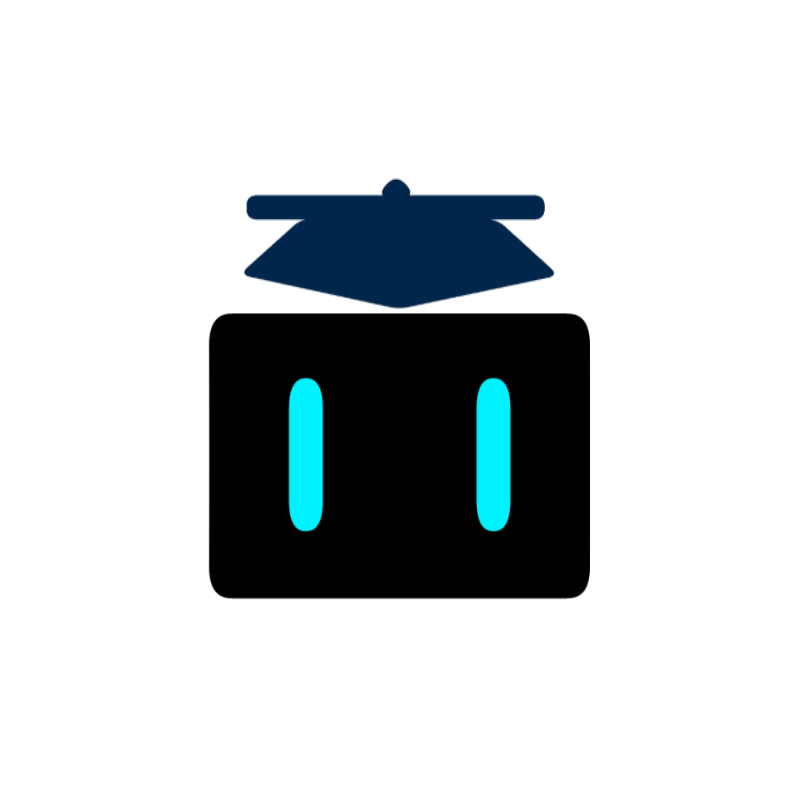
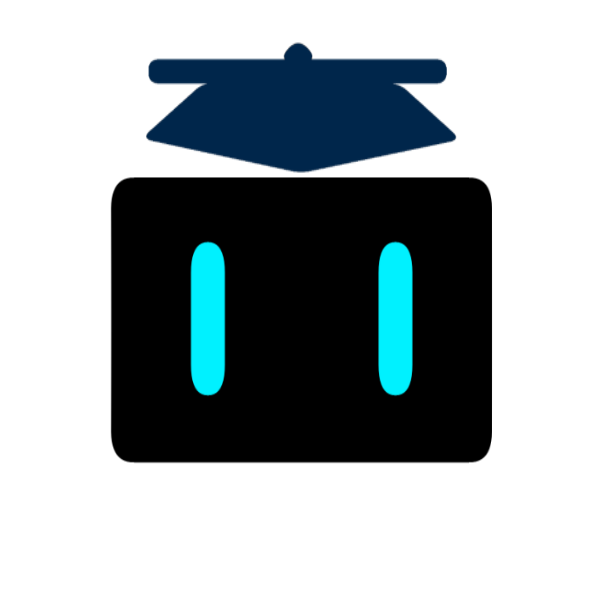
chatbot UI update

Changed region(s): [[0.18, 0.06, 0.84, 0.78]]

diff --git a/Wiki-Taka Chatbot/static/t5code.js b/Wiki-Taka Chatbot/static/t5code.js
@@ -1,0 +1,146 @@
+var pop;
+var rs;
+var anvoice;
+
+window.onload = setup;
+
+function setup() {
+  pop = new Audio("/sounds/pop.mp3");
+  pop.volume = 0.2;
+  rs = new RiveScript();
+  rs.loadFile(["/static/t5chatbotRiveScript.html"], on_load_success, on_load_error);
+}
+
+function on_load_success() {
+  $("#message").removeAttr("disabled");
+  $("#message").attr("placeholder", "Message");
+  $("#message").focus();
+  rs.sortReplies();
+  getReply("start");
+}
+
+function on_load_error(err) {
+  postReply(
+    "Yikes, there was an error loading this bot. Refresh the page please."
+  );
+  console.log("Loading error: " + err);
+}
+
+function validate(event) {
+   event.preventDefault();
+};
+
+function sendMessage() {
+  var text = $("#message").val();
+  if (text.length === 0) return validate(event);
+  $("#message2").val(text);
+  $("#message").val("");
+  $("#message").attr("disabled",true);
+  $("#dialogue").append(
+    "<div class='user-row'><span class='user'>" +
+      escapeHtml(text) +
+      "</span></div>"
+  );
+  $("#dialogue").animate({ scrollTop: $("#dialogue")[0].scrollHeight }, 200);
+  waitReply("pleasewait");
+}
+
+function getReply(text) {
+  try {
+    var reply = rs.reply("soandso", text);
+    reply = reply.replace(/\n/g, "<br>");
+    startpostReply(reply);
+  } catch (e) {
+    startpostReply(e.message + "\n" + e.line);
+    console.log(e);
+  }
+}
+
+function getReply2(text) {
+  $("#message").val("")
+    var reply = $("#iframe1").contents().find('pre').html();
+  if (reply == "Internal Server Error") {
+    var reply = "현재 답변을 가져올 수 없습니다.";
+    postReply(reply);
+    } else {
+    anvoice = new Audio("/sounds/answer.mp3")
+    postReply(reply);
+  }
+  }
+
+function waitReply(text) {
+  try {
+    var reply = rs.reply("soandso", text);
+    reply = reply.replace(/\n/g, "<br>");
+    postwaitReply(reply);
+  } catch (e) {
+    postwaitReply(e.message + "\n" + e.line);
+    console.log(e);
+  }
+}
+
+function postwaitReply(reply, delay) {
+  if (!delay) delay = 800;
+  var waitid = "disapear";
+  setTimeout(function() {
+    $("#dialogue").append(
+      "<div class='bot-row' id='" +
+        waitid +
+        "'><img class= 'chatbotprofile' src = '/img/Wikidqprofile.png' alt = 'noproflies'><span class='bot'>" +
+        reply +
+        "</span></div>"
+    );
+    pop.play();
+    $("#" + rand)
+      .hide()
+      .fadeIn(200);
+    $("#dialogue").animate({ scrollTop: $("#dialogue")[0].scrollHeight }, 200);
+  }, delay);
+}
+
+function startpostReply(reply, delay) {
+  if (!delay) delay = 800;
+  var rand = Math.round(Math.random() * 10000);;
+  setTimeout(function () {
+    $("#dialogue").append(
+      "<div class='bot-row' id='" +
+        rand +
+        "'><img class= 'chatbotprofile' src = '/img/Wikidqprofile.png' alt = 'noproflies'><span class='bot'>" +
+        reply +
+        "</span></div>"
+    );
+    pop.play();
+    $("#" + rand)
+      .hide()
+      .fadeIn(200);
+    $("#dialogue").animate({ scrollTop: $("#dialogue")[0].scrollHeight }, 200);
+  }, delay);
+}
+
+function postReply(reply, delay) {
+  if (!delay) delay = 800;
+  var rand = Math.round(Math.random() * 10000);
+  setTimeout(function () {
+    $("#disapear").remove();
+    $("#dialogue").append(
+      "<div class='bot-row' id='" +
+        rand +
+        "'><img class= 'chatbotprofile' src = '/img/Wikidqprofile.png' alt = 'noproflies'><span class='bot'>" +
+        reply +
+        "</span></div>"
+    );
+    anvoice.play();
+    $("#message").attr("disabled", false);
+    $("#" + rand)
+      .hide()
+      .fadeIn(200);
+    $("#dialogue").animate({ scrollTop: $("#dialogue")[0].scrollHeight }, 200);
+  }, delay);
+}
+
+function escapeHtml(text) {
+  return text
+    .replace(/&/g, "&amp;")
+    .replace(/</g, "&lt;")
+    .replace(/>/g, "&gt;");
+}

diff --git a/Wiki-Taka Chatbot/templates/T5chatbot.html b/Wiki-Taka Chatbot/templates/T5chatbot.html
@@ -5,7 +5,7 @@
   <title>Wiki-DQ</title>
   <meta http-equiv="Content-Type" content="text/html; charset=UTF-8">
   <meta name="viewport" content="width=device-width, initial-scale=1">
-  <link rel="stylesheet" type="text/css" href="/static/style.css">
+  <link rel="stylesheet" type="text/css" href="/static/t5style.css">
   <link rel="shortcut icon" type="image/x-icon" href="/img/favicon.ico" />
   <link rel="shortcut icon" type="image/x-icon" href="/img/favicon.ico" />
   <link href="https://cdn.jsdelivr.net/npm/bootstrap@5.1.3/dist/css/bootstrap.min.css" rel="stylesheet" integrity="sha384-1BmE4kWBq78iYhFldvKuhfTAU6auU8tT94WrHftjDbrCEXSU1oBoqyl2QvZ6jIW3" crossorigin="anonymous">
@@ -43,7 +43,7 @@
     </div>
   </div>
 </nav>
-<img src='/img/MainpageCharacter.png' alt="Myimage" style="position:absolute; left:30%; top:50px; z-index:-1; opacity:0.5">
+<img src='/img/WikidqCharacter.png' alt="Myimage" style="position:absolute; left:30%; top:50px; z-index:-1; opacity:0.5">
   <div class='wrapper'>
     <div id="dialogue"></div>
     <form  method="post" name= "chating" action ="/T5chatresult" onsubmit="sendMessage()" enctype="multipart/form-data" target="iframe1">
@@ -66,7 +66,7 @@
 <!--   <script src="/templates/rivescript.min.js"></script> -->
     <script src="/lib/rivescript.js"></script>
 
-<script src="/static/code.js"></script>
+<script src="/static/t5code.js"></script>
 </body>
 
     

diff --git a/Wiki-Taka Chatbot/templates/Mainpage.html b/Wiki-Taka Chatbot/templates/Mainpage.html
@@ -40,7 +40,14 @@
     </div>
   </div>
 </nav>
-<img src="img/MainpageCharacter.png" alt="noimage">
+<center>
+<a href="SBERTchatbot">
+<img src="img/wikitakainfo.png" alt="noimage">
+</a>
+<a href="T5chatbot">
+<img src="img/wikidqinfo.png" alt="noimage">
+</a>
+</center>
 <div class="container">
   <footer class="py-3 my-4">
     <p class="text-center text-muted">Wiki-Taka Chatbot</p>

diff --git a/Wiki-Taka Chatbot/static/t5chatbotRiveScript.html b/Wiki-Taka Chatbot/static/t5chatbotRiveScript.html
@@ -1,0 +1,13 @@
+/*this is not actually html. We are only using the .html extension so we can open it in Editey on Google Drive. This is in RiveScript (rivescript.com)*/
+
++ start
+- 안녕하세요, Wiki-DQ입니다. 질문을 입력해주세요.
+
++ (hello|hi)[*]
+- Hi there.
+
++ pleasewait
+- 잠시 기다려주세요...
+
++ *
+- I don't understand <strong>"<star>"</strong>

diff --git a/Wiki-Taka Chatbot/static/t5style.css b/Wiki-Taka Chatbot/static/t5style.css
@@ -1,5 +1,5 @@
 body {
-	background: linear-gradient(hsl(210, 63%, 55%), #cceeff);
+	background: linear-gradient(#c8f093, #ffffff);
 	font-family: Verdana,Arial,Helvetica,sans-serif;
 	font-size: small;
 	color: #000000;
